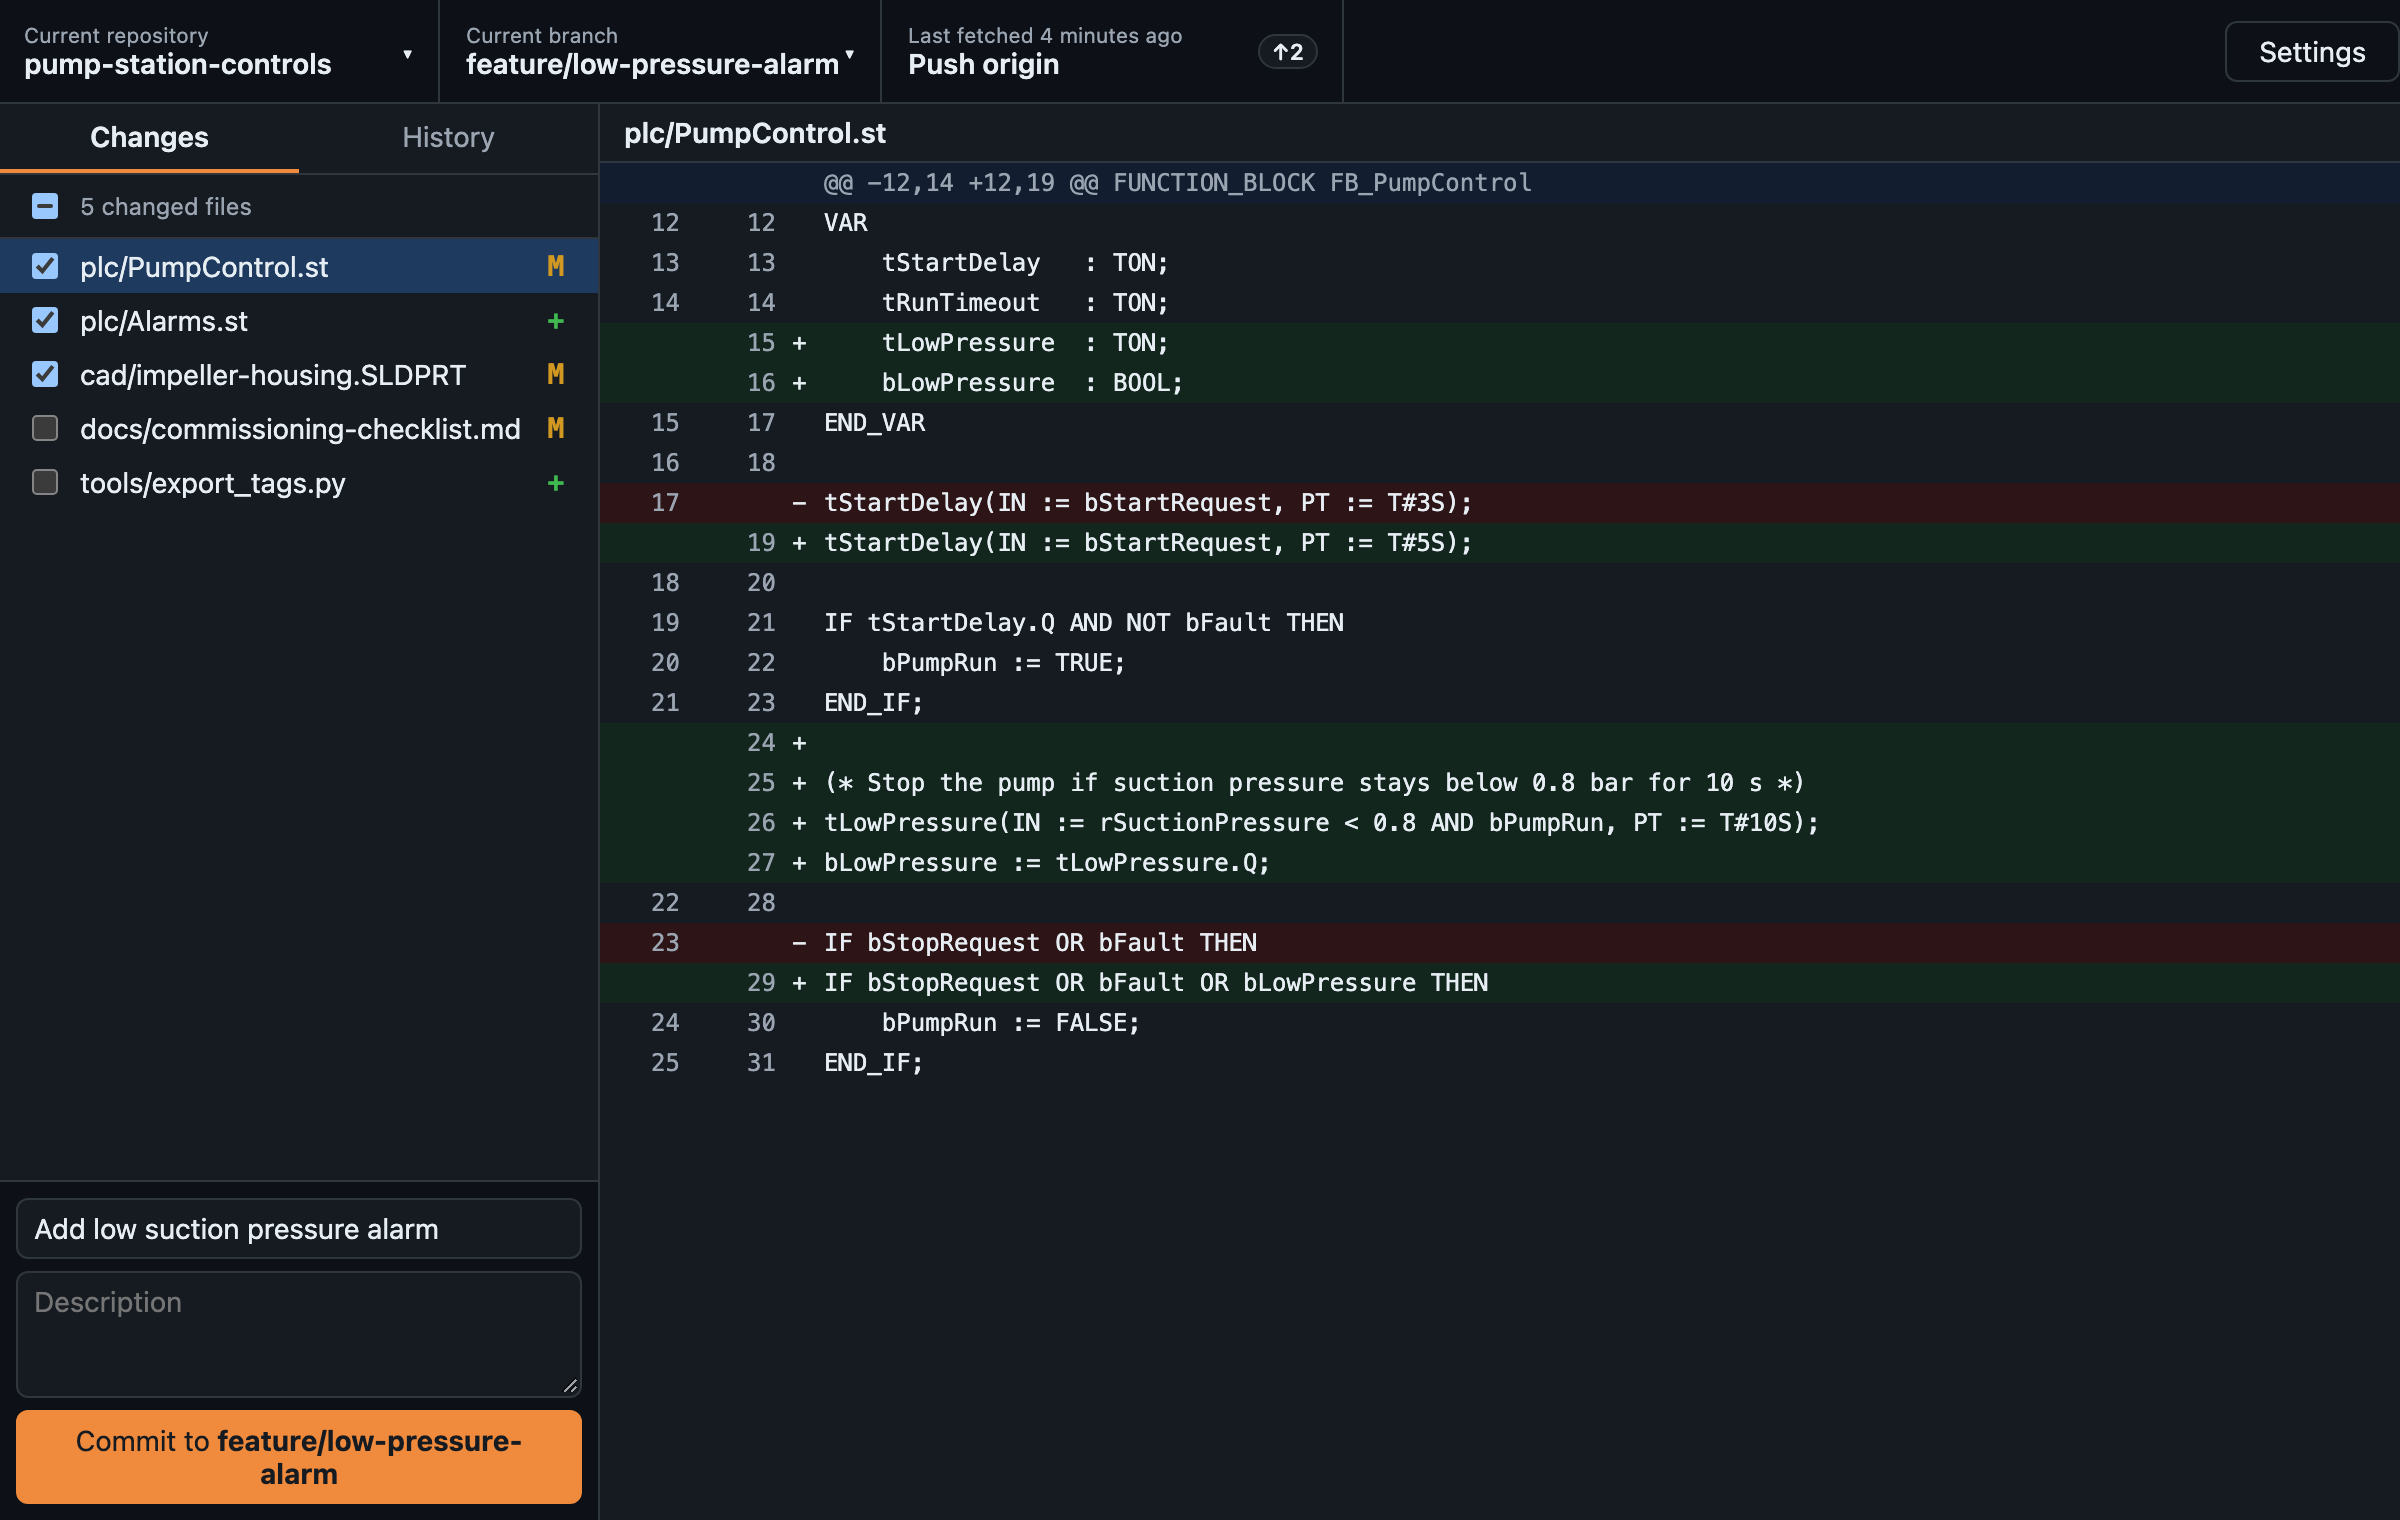
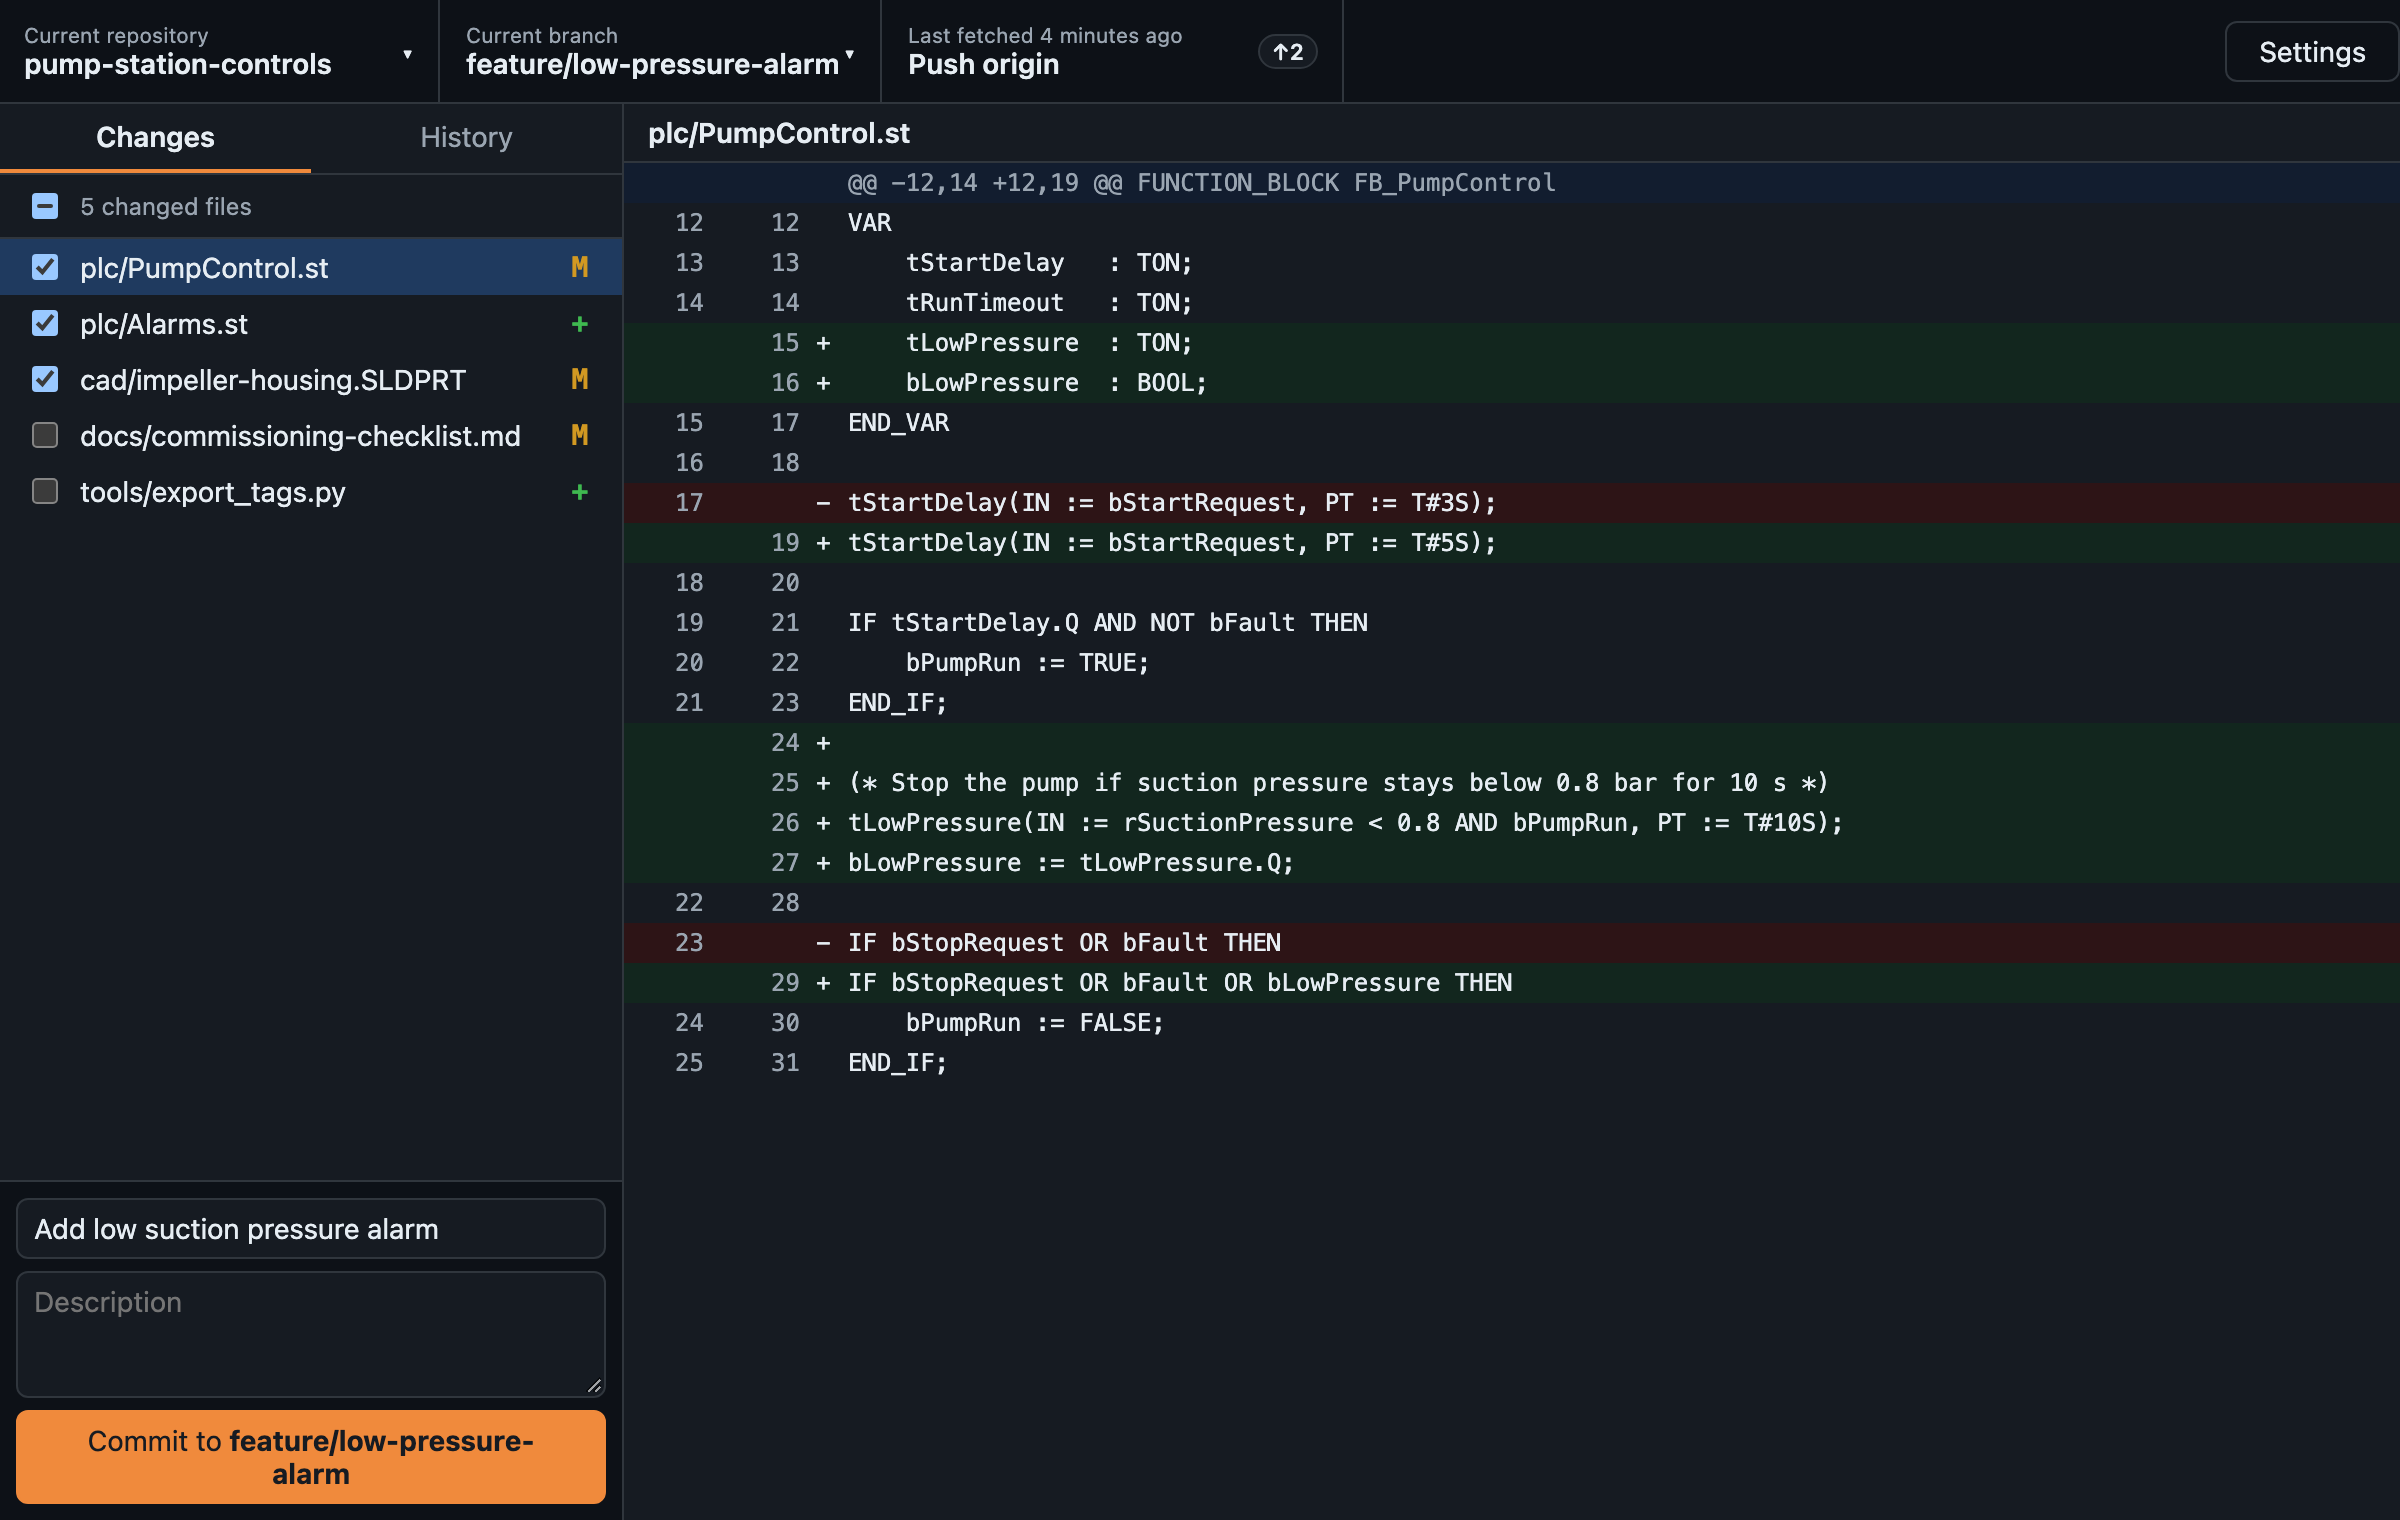
Refresh screenshots and add a maintainer note to the README (#18)
* README: note who designs and maintains Tenajlo

* Refresh the website and README screenshots

Regenerated with scripts/screenshots.mjs after the layout changes in
#17. The commit button now wraps to two lines before shortening the
branch name, so normal-length names are shown in full again.

---------

diff --git a/src/styles.css b/src/styles.css
@@ -681,11 +681,14 @@ code {
   width: 100%;
 }
 
-/* One line however long the branch name; the full text is in the tooltip. */
+/* At most two lines however long the branch name; the full text is in the tooltip. */
 .commit-button {
+  display: -webkit-box;
+  -webkit-box-orient: vertical;
+  -webkit-line-clamp: 2;
+  line-clamp: 2;
   overflow: hidden;
-  text-overflow: ellipsis;
-  white-space: nowrap;
+  overflow-wrap: anywhere;
 }
 
 button:disabled {

diff --git a/README.md b/README.md
@@ -10,6 +10,11 @@ and would rather not learn the Git command line.
 
 **Website:** <https://kovirlabs.github.io/tenajlo/>
 
+> [!NOTE]
+> Designed, reviewed, and maintained by me, [@evangress](https://github.com/evangress). I use AI coding tools heavily for implementation,
+> but I own the architecture, read the changes, and use this app daily against my own Forgejo server.
+> Bug reports go to a human.
+
 ![Tenajlo's Changes view: changed files including a PLC program and a CAD part, the highlighted changes, and a commit box](site/assets/screenshots/changes.png)
 
 - **Clone** your Forgejo repositories from a list, over HTTPS or SSH.
